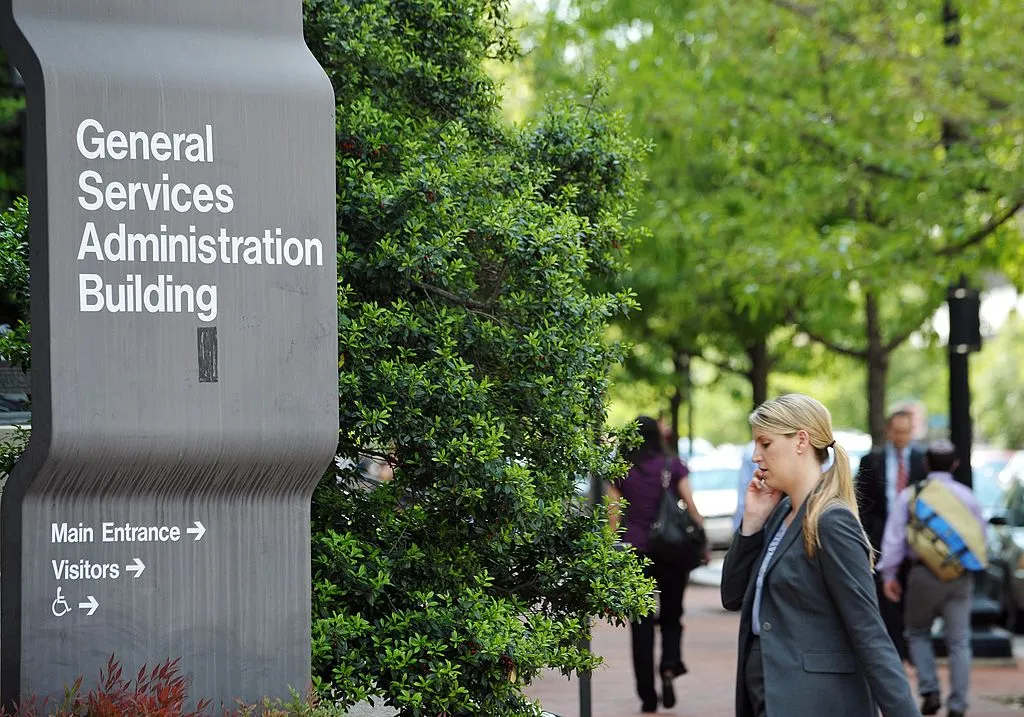
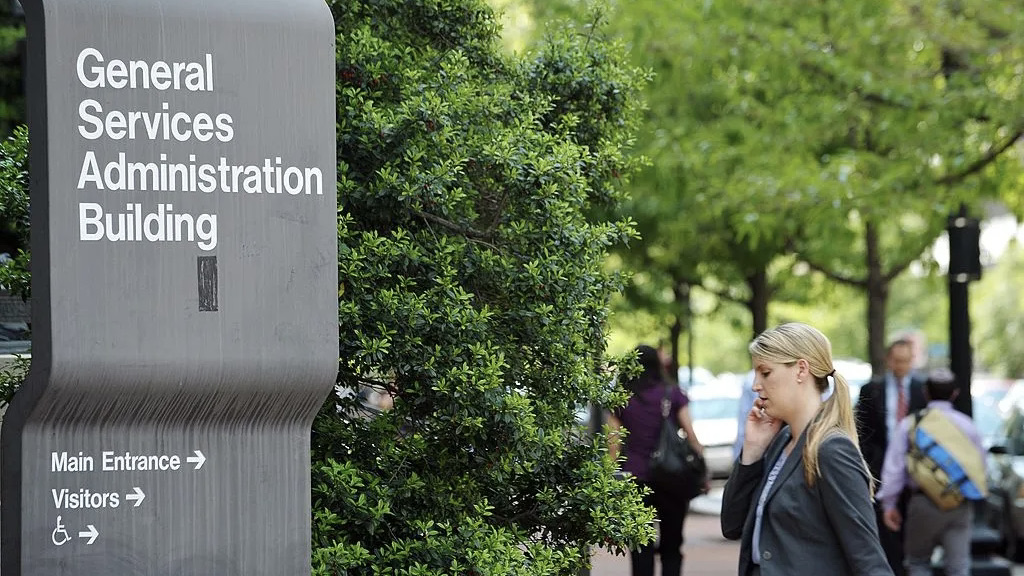
update article image sizing

diff --git a/_includes/press.html b/_includes/press.html
@@ -13,7 +13,7 @@
               <div class="article-type">{{article.type}}</div>
               <div class="usa-prose press-img">
                 {% if article.image %}
-                {% asset "{{ article.image }}" class="" alt="{{ article.title }}" %}
+                {% asset "{{ article.image }}" class="img-size" alt="{{ article.title }}" %}
                 {% else %}
                 {% asset "Placeholder.png" class="margin-right-3" alt="{{ article.title  }}" %}
                 {% endif %}

diff --git a/_assets/css/pages/_home.scss b/_assets/css/pages/_home.scss
@@ -218,6 +218,10 @@
       // @include u-border-bottom('1px', 'primary');
       @include u-padding-bottom(2);
     }
+    .img-size{
+      width: 400px;
+      height: 230px;
+    }
     
   }
 }
